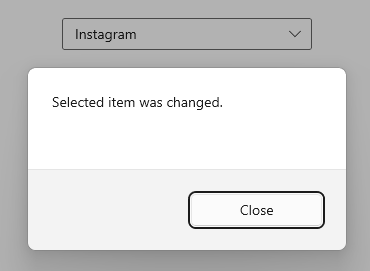
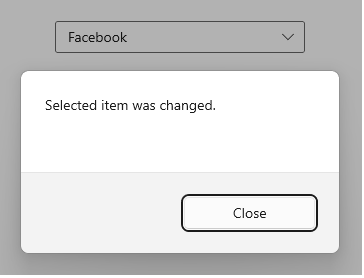
Resolved error and committed.

diff --git a/winui/ComboBox/Selection.md b/winui/ComboBox/Selection.md
@@ -103,7 +103,7 @@ private async  void OnComboBoxSelectionChanged(object sender, ComboBoxSelectionC
 {% endhighlight %}
 {% endtabs %}
 
-Below screenshots demonstrates, while typing `i` in ComboBox control `Instagram` will be updated as selected item.
+Below screenshots demonstrates, while typing `f` in ComboBox control `Facebook` will be set as selected item.
 
 ![Updates selected item each time the user navigates to a new selection in ComboBox](Selection_images/winui-combobox-selection-change-trigger-always.png)
 
